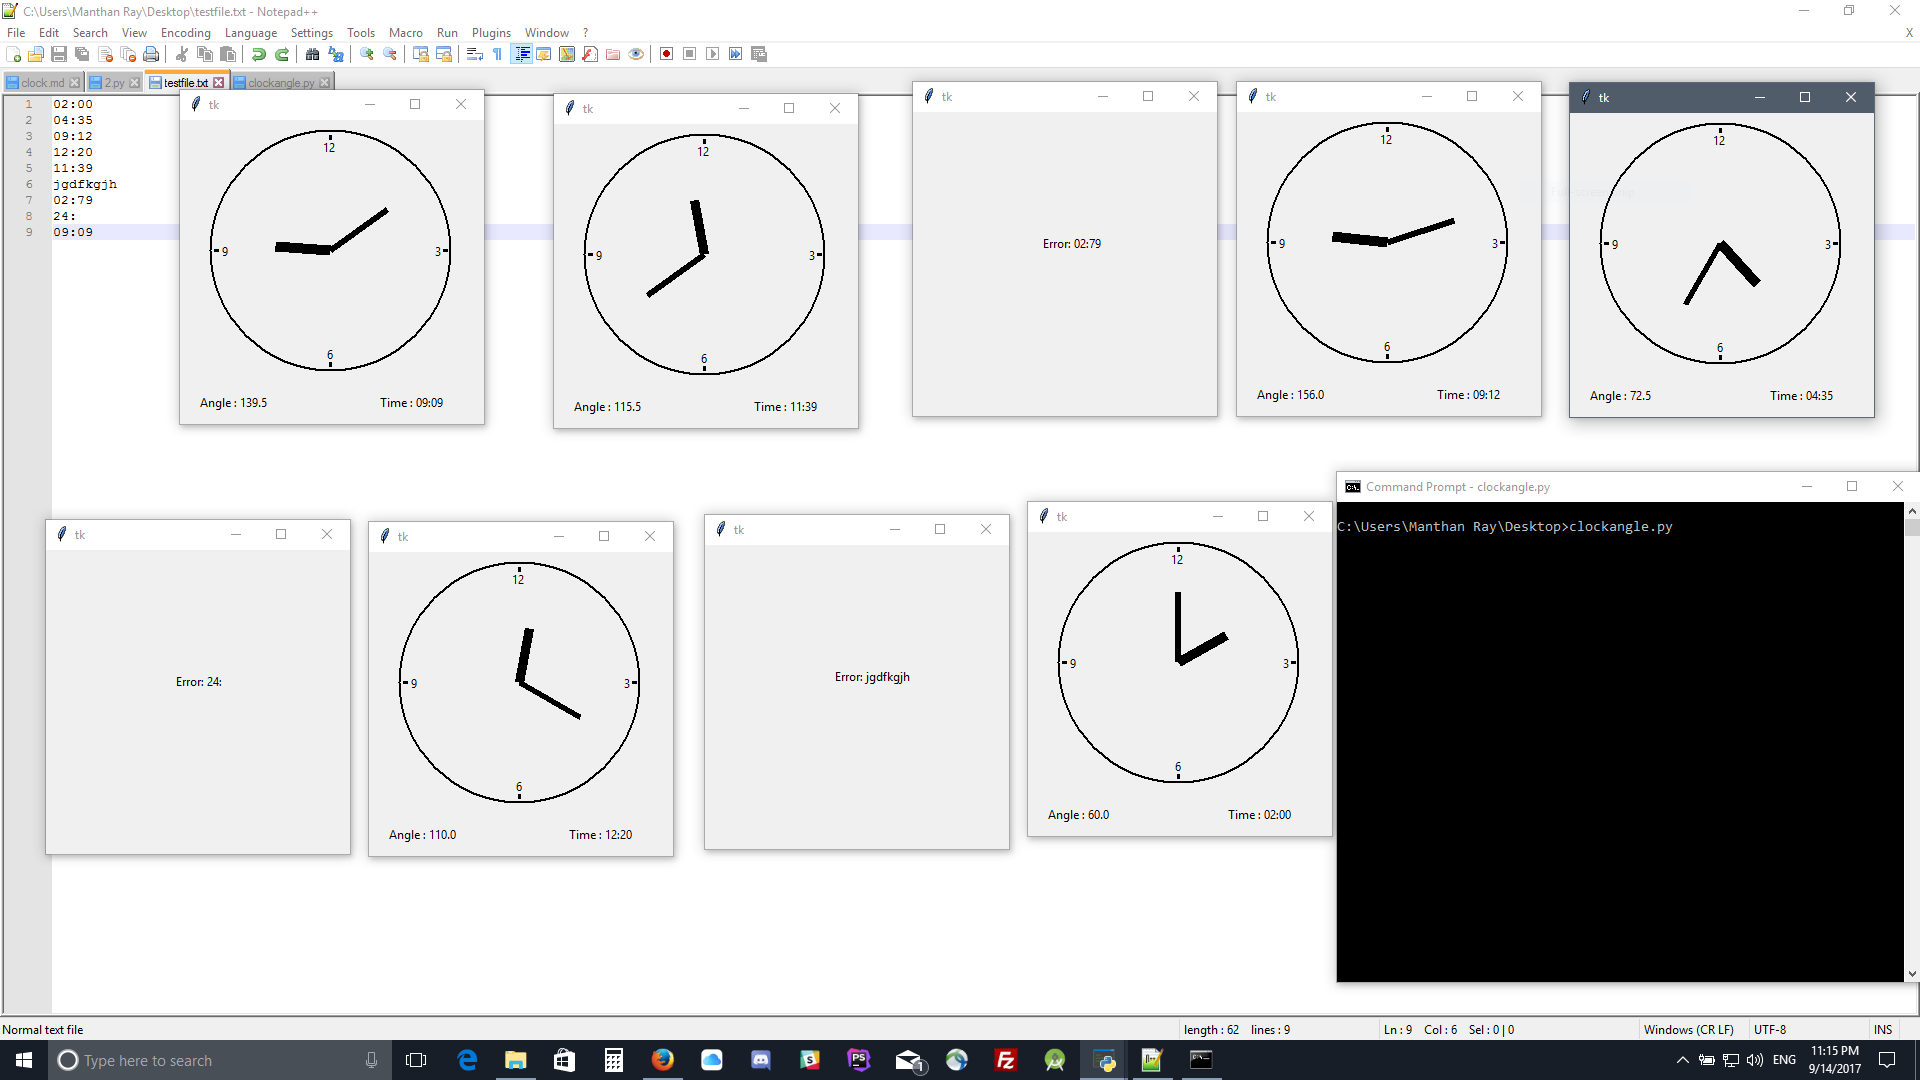
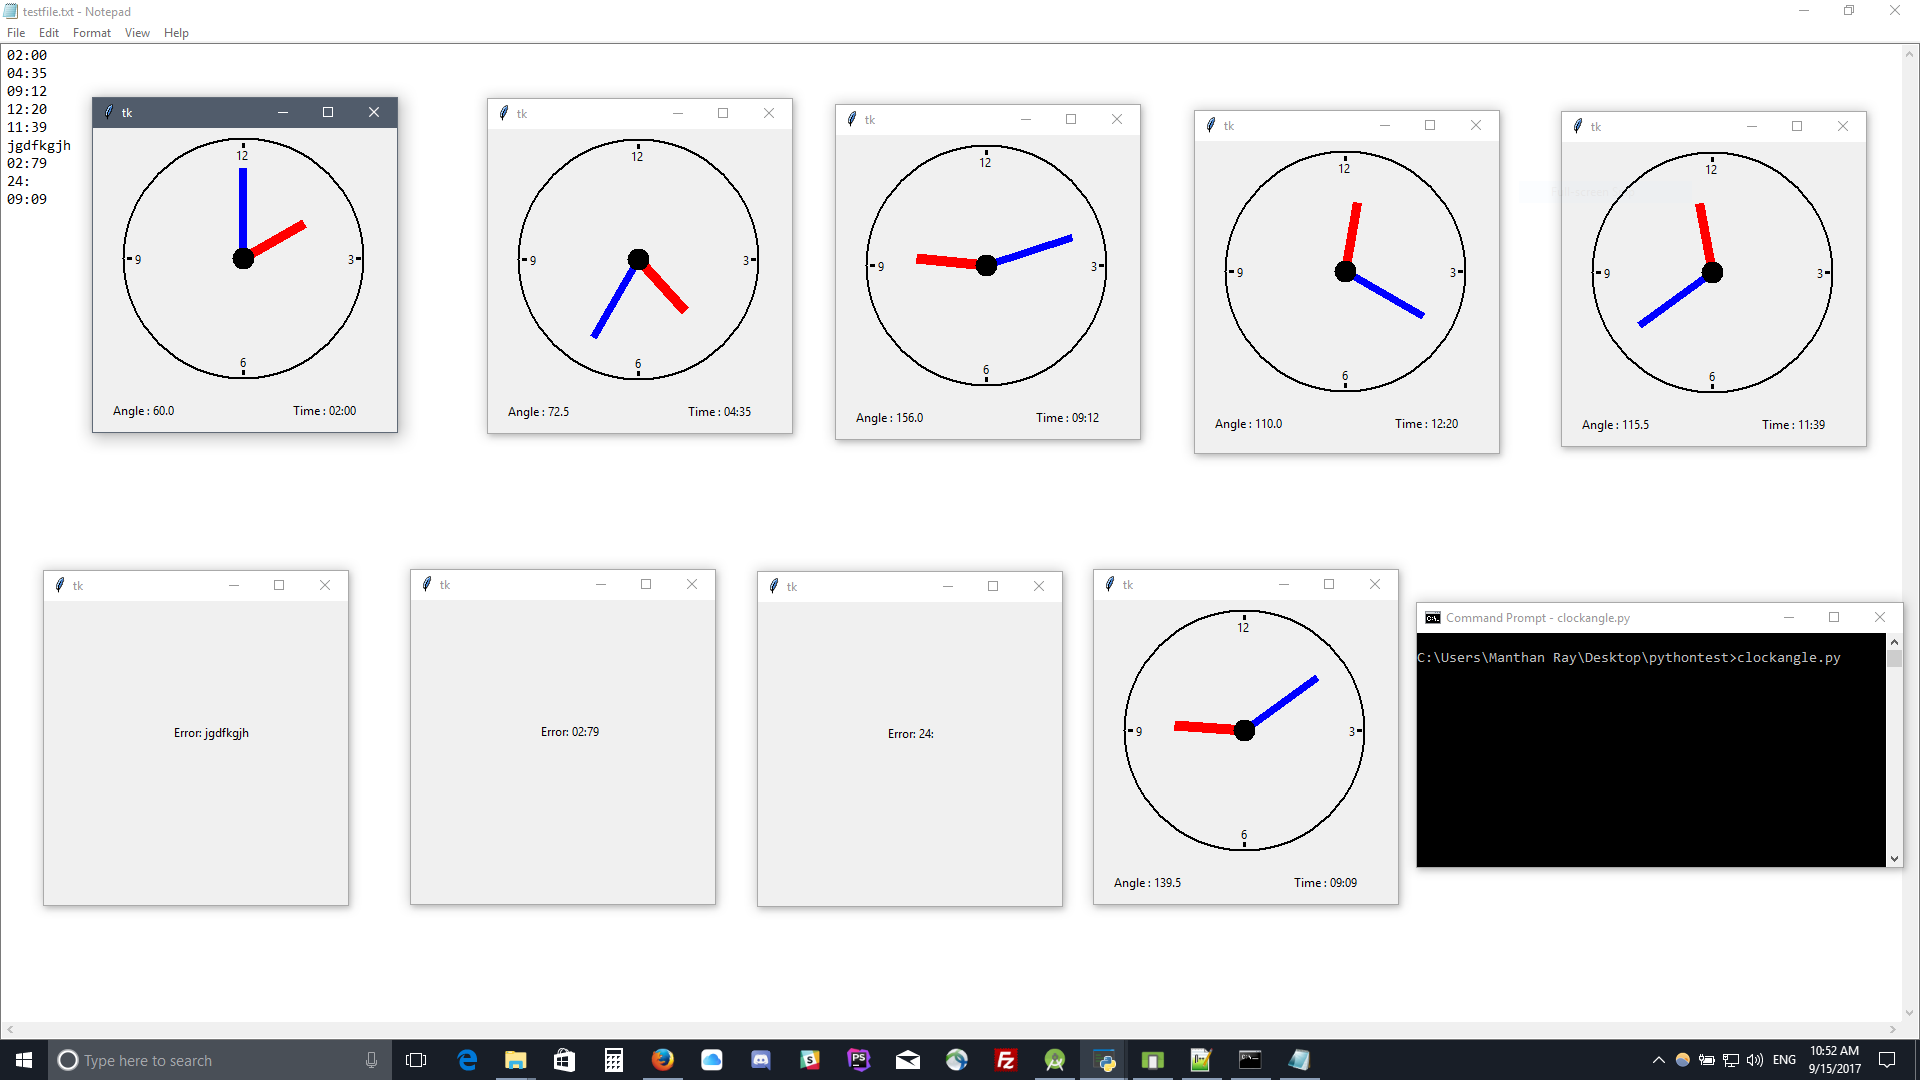
Some UI changes

diff --git a/clockangle.py b/clockangle.py
@@ -10,14 +10,14 @@ for line in file:
 				minute = int(line[3]+line[4])
 				minDeg = 6*minute
 				minAngle = (minDeg*math.pi)/180
-				miny = 130 - (70*math.cos(minAngle))
-				minx = (70*math.sin(minAngle)) + 150
+				miny = 130 - (90*math.cos(minAngle))
+				minx = (90*math.sin(minAngle)) + 150
 				
 				hour = int(line[0]+line[1])
 				hrDeg = 0.5*(60*hour+minute)
 				hrAngle = (hrDeg*math.pi)/180
-				hry = 130 - (55*math.cos(hrAngle))
-				hrx = (55*math.sin(hrAngle)) + 150
+				hry = 130 - (70*math.cos(hrAngle))
+				hrx = (70*math.sin(hrAngle)) + 150
 				
 				realHour = hour
 				if(hour>12):
@@ -65,8 +65,9 @@ for line in file:
 						canvas_id = C.create_text(200, 275, anchor="nw")
 						C.itemconfig(canvas_id, text="Time : "+str(realHour)+":"+str(minute))
 				
-					line = C.create_line(hrx, hry, 150, 130, width = 10)
-					line = C.create_line(minx, miny, 150, 130, width = 6)
+					line = C.create_line(hrx, hry, 150, 130, width = 10, fill="Red")
+					line = C.create_line(minx, miny, 150, 130, width = 8, fill="Blue")
+					oval = C.create_oval(140, 120, 160, 140, width=2, fill="Black")
 				
 					C.pack()
 				else:
@@ -81,14 +82,14 @@ for line in file:
 				minute = int(line[3]+line[4])
 				minDeg = 6*minute
 				minAngle = (minDeg*math.pi)/180
-				miny = 130 - (70*math.cos(minAngle))
-				minx = (70*math.sin(minAngle)) + 150
+				miny = 130 - (90*math.cos(minAngle))
+				minx = (90*math.sin(minAngle)) + 150
 				
 				hour = int(line[0]+line[1])
 				hrDeg = 0.5*(60*hour+minute)
 				hrAngle = (hrDeg*math.pi)/180
-				hry = 130 - (55*math.cos(hrAngle))
-				hrx = (55*math.sin(hrAngle)) + 150
+				hry = 130 - (70*math.cos(hrAngle))
+				hrx = (70*math.sin(hrAngle)) + 150
 				realHour = hour
 				if(hour>12):
 					hour-=12
@@ -123,8 +124,9 @@ for line in file:
 					canvas_id = C.create_text(20, 275, anchor="nw")
 					C.itemconfig(canvas_id, text="Angle : "+str(btAngle))
 				
-					line = C.create_line(hrx, hry, 150, 130, width = 10)
-					line = C.create_line(minx, miny, 150, 130, width = 6)
+					line = C.create_line(hrx, hry, 150, 130, width = 10, fill="Red")
+					line = C.create_line(minx, miny, 150, 130, width = 8, fill="Blue")
+					oval = C.create_oval(140, 120, 160, 140, width=2, fill="Black")
 				
 					if(realHour<10 and minute>10):
 						canvas_id = C.create_text(200, 275, anchor="nw")

diff --git a/README.md b/README.md
@@ -2,3 +2,5 @@
 
 Code is written based on the assumption that the file to read is in the same directory as the source.
 Run using $python clockangle.py
+
+- Minute hand is blue and hour hand is red.
